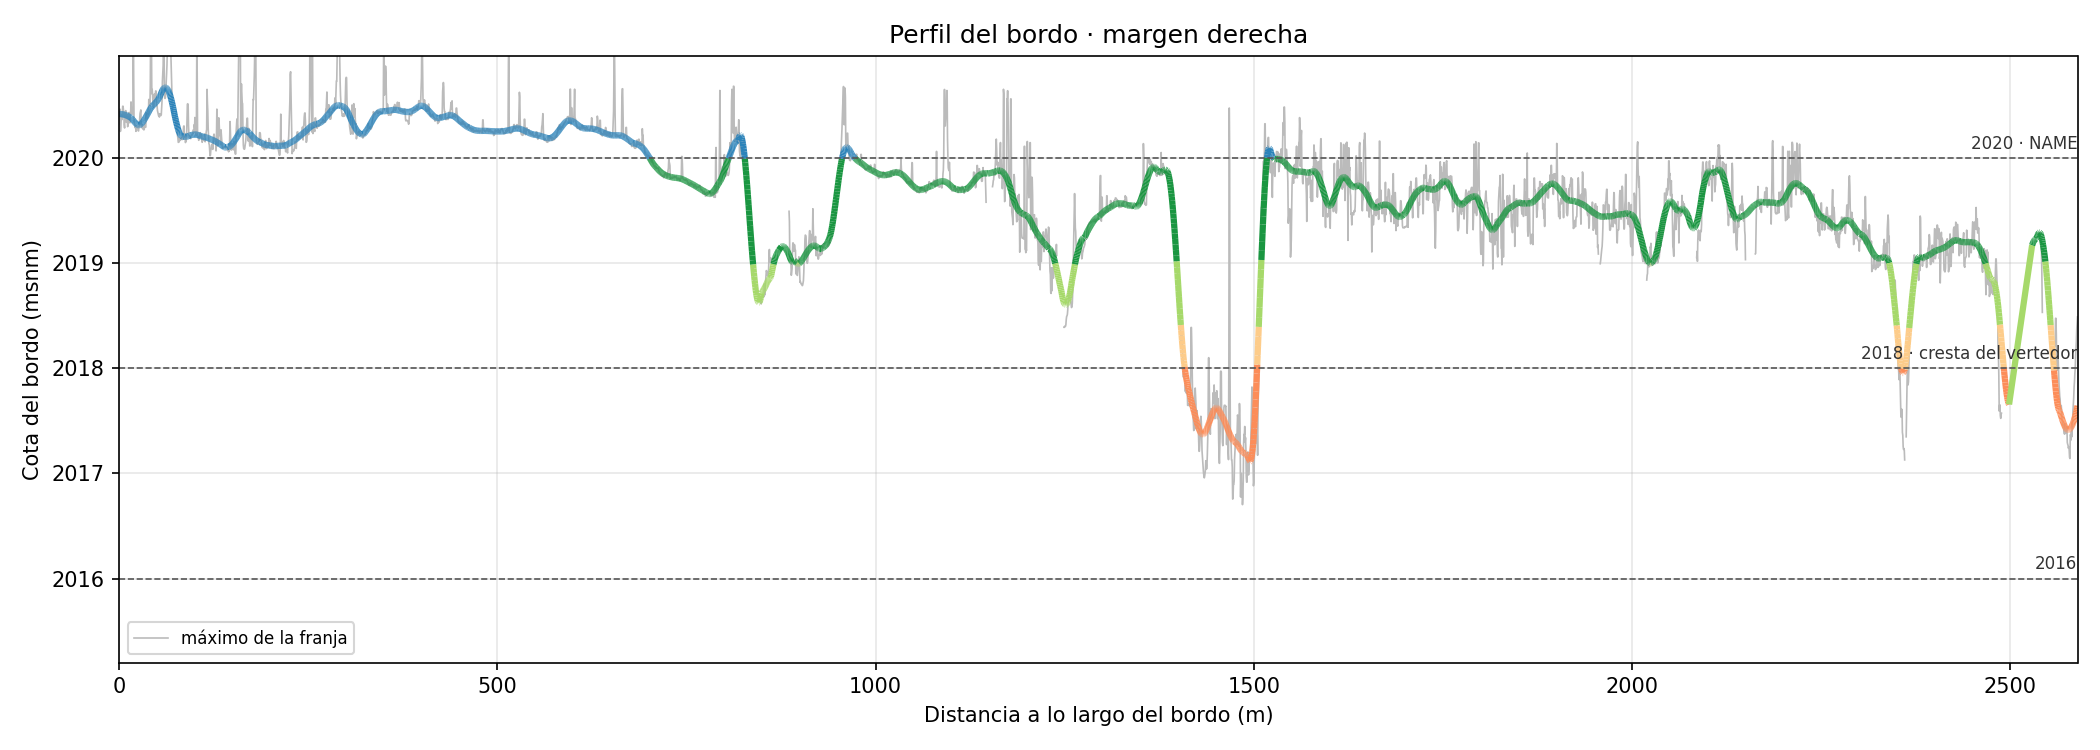
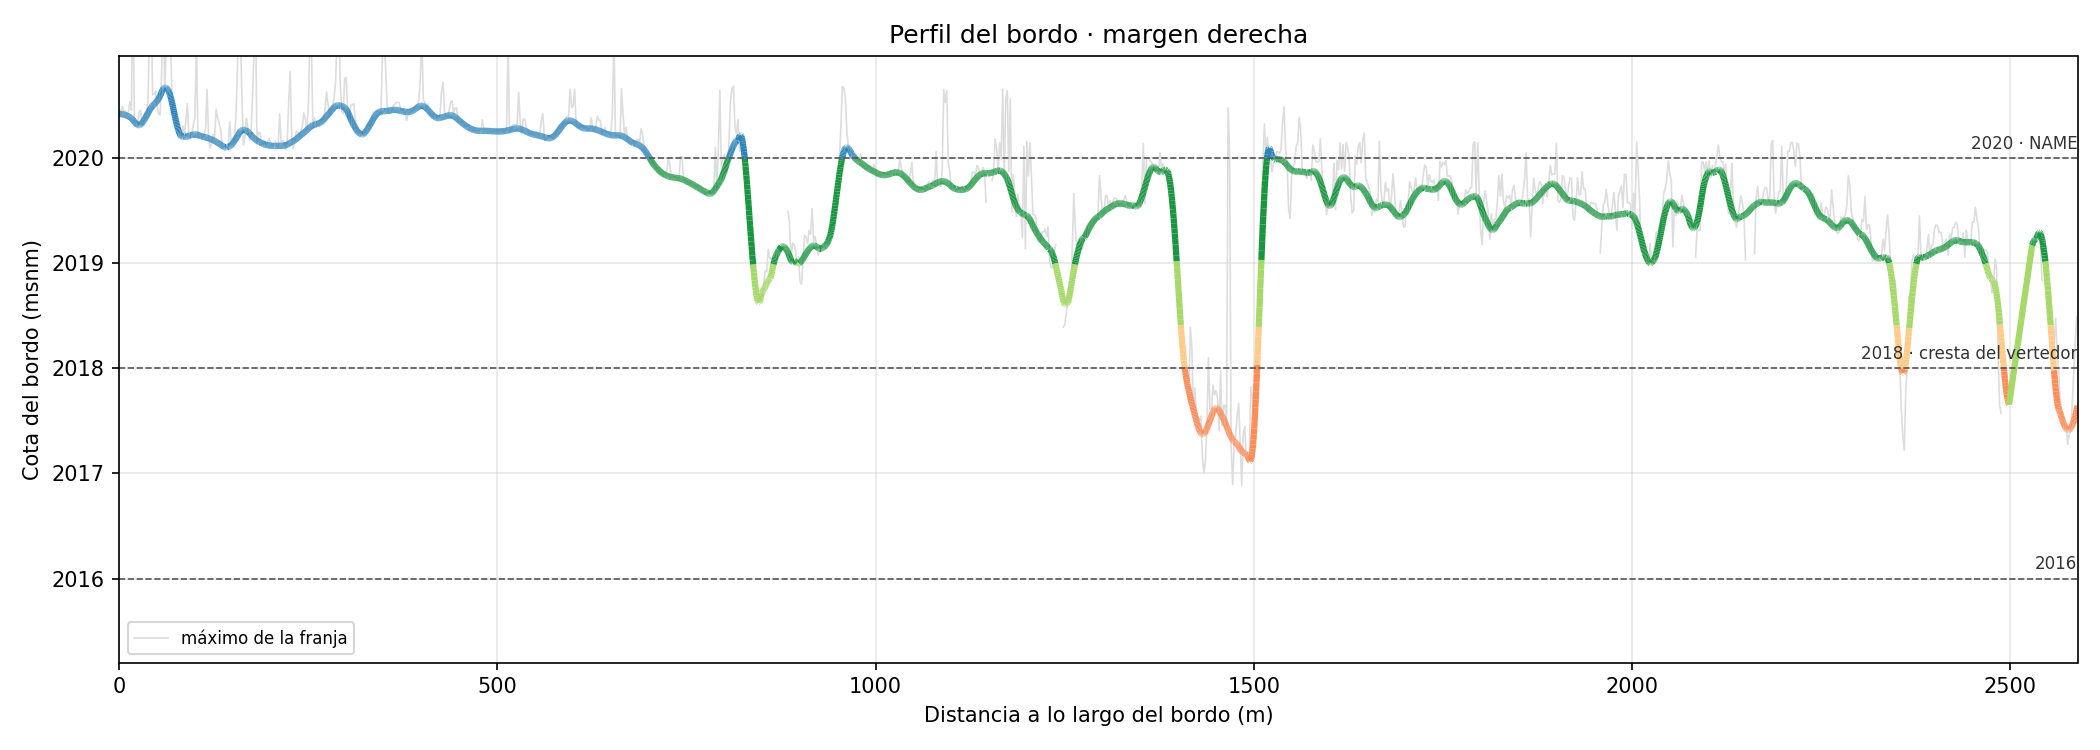
Gráfica del perfil: máximo de la franja cada 2 m y en gris claro

diff --git a/bordo_analisis.py b/bordo_analisis.py
@@ -18,6 +18,7 @@ VENTANA_MEDIANA = 41                # muestras (20 m)
 VENTANA_SUAVE = 61                  # muestras (30 m)
 COTA_ALERTA = 2018.4                # msnm
 LONG_MIN_BAJO = 2.0                 # m
+PASO_GRAFICA = 2.0                  # m, espaciado del máximo de la franja en la gráfica
 Z_ESTRUCTURA = 2022.0               # puentes, edificios y árboles se ignoran
 INICIO_RIO = (463860, 2218660)      # aguas arriba; el perfil empieza en el extremo más cercano
 SALIENTE = 1.0                      # m sobre la mediana del MDT en 5 m: algo sobresale
@@ -78,7 +79,9 @@ def tramos_bajos(dist, z, cota, long_min):
 
 def graficar(titulo, dist, z_crudo, z_filt, ruta):
     fig, ax = plt.subplots(figsize=(14, 5))
-    ax.plot(dist, [v if v is not None else np.nan for v in z_crudo], color="#bbbbbb", lw=0.8, label="máximo de la franja")
+    k = max(1, int(PASO_GRAFICA / PASO))
+    crudo = pd.Series([v if v is not None else np.nan for v in z_crudo]).groupby(np.arange(len(dist)) // k).max()
+    ax.plot(dist[::k][:len(crudo)], crudo, color="#dddddd", lw=0.8, label="máximo de la franja")
     pts = [(d, v) for d, v in zip(dist, z_filt) if v is not None]
     segs = [[pts[i], pts[i + 1]] for i in range(len(pts) - 1)]
     limites = [c[0] for c in CLASES] + [CLASES[-1][1]]
